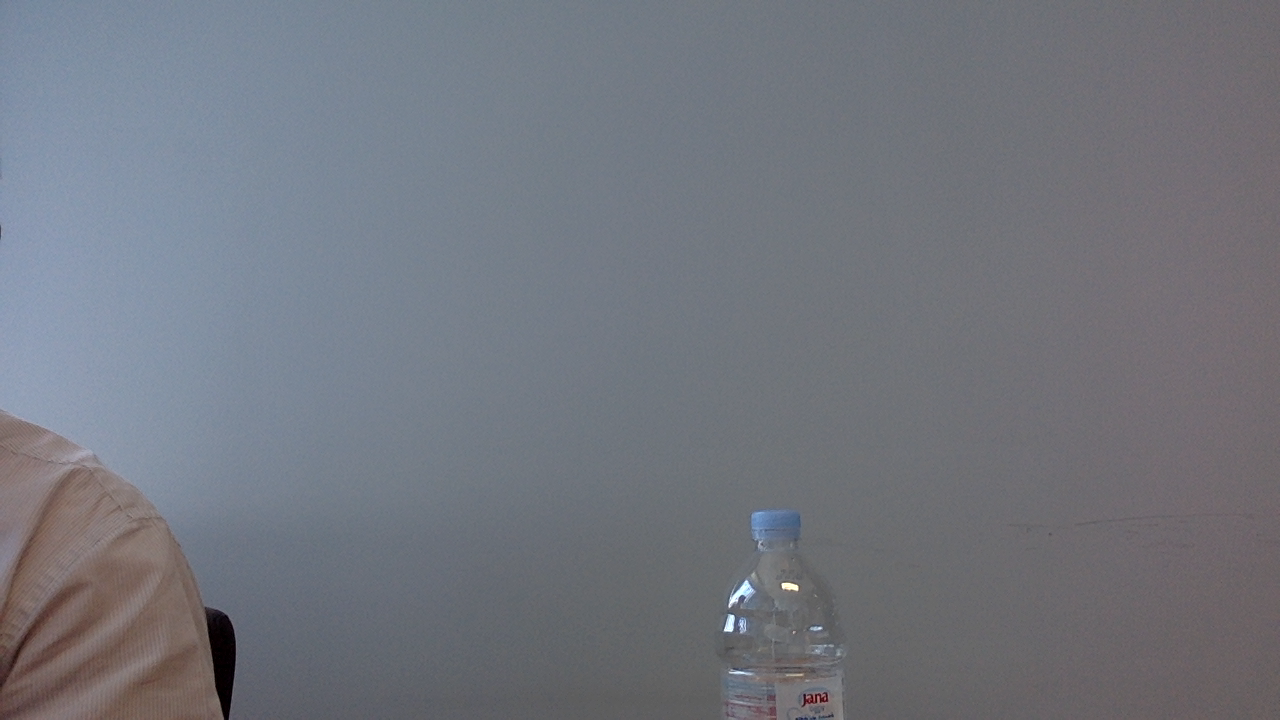
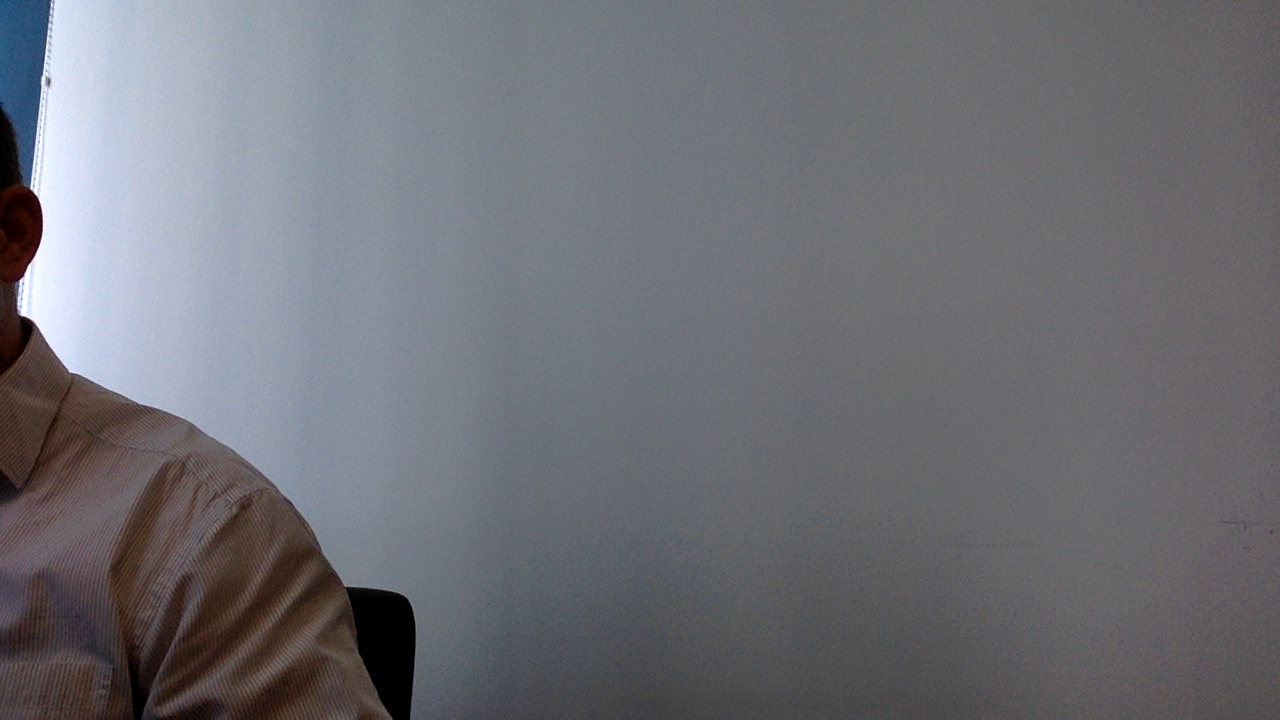
live view image refresh automatically

Changed region(s): [[0.0, 0.0, 0.3438, 1.0], [0.375, 0.7028, 0.7812, 1.0], [0.9688, 0.9778, 1.0, 1.0]]

diff --git a/Templates/live_view.html b/Templates/live_view.html
@@ -22,10 +22,9 @@
   <div class="w3-row my-panel">
     <div class=" w3-container">
 	  <div style="max-width: 400px; float:right; margin-right: 0px;padding: 10px 0">
-		Recent picture: {{recpicdate}}<br>
-		<img  src="live_view.png" style="max-width: 100%";}>
+		<img id="preview_img" src="/preview" style="max-width: 100%";}>
 	  </div>
-      <h1 class="w3-text-teal">Recent Scan</h1>
+      <h1 class="w3-text-teal">Live View</h1>
 
 	  <p>Recently recognized person/people:<br>{{names}}</p>
     </div>
@@ -46,5 +45,12 @@
 	</div>
   </div>
 
+<script type="text/javascript">
+	setInterval(function(){
+		d = new Date();
+		$("#preview_img").attr("src", "/preview?"+d.getTime());
+	}, 1000);
+
+</script>
 
 {%endblock main_content%}

diff --git a/blueprints/actions/routes.py b/blueprints/actions/routes.py
@@ -1,73 +1,26 @@
-from flask import Blueprint, render_template, request, redirect
+from flask import Blueprint, render_template, request, redirect, make_response
 from flask import current_app as app
 import flask_simplelogin as simplog
 import os
 import sys
 import datetime
-import threading
 import cv2
 import logging
 
-
 actions = Blueprint("actions", __name__)
 
-
-def continous_check(app_cont):
-    """
-    Continously calls the process_next_frame() method to process frames from the camera
-    app_cont: used to access the main application instance from blueprints
-    """
-    global most_recent_scan_date
-    ticker = 0
-    error_count = 0
-    while app_cont.fh.cam_is_running:
-        try:
-            if ticker > int(app_cont.fh.face_rec_settings["dnn_scan_freq"]) or app_cont.force_rescan:
-                names, frame, rects = app_cont.fh.process_next_frame(True, save_new_faces=True)
-                ticker = 0
-                cv2.imwrite("Static/live_view.png", frame)  # TODO: do we need this?
-                most_recent_scan_date = datetime.datetime.now()
-                app_cont.force_rescan = False
-            else:
-                names, frame, rects = app_cont.fh.process_next_frame(save_new_faces=True)
-            ticker += 1
-            error_count = 0
-        except Exception as e:
-            error_count += 1
-            if app_cont.fh.cam:
-                app_cont.fh.cam.release()
-            logging.info(e)
-            if error_count > 5:
-                app_cont.fh.cam_is_running = False
-    # try:
-    #     app_cont.camera_thread
-        # app_cont.threads.remove(app_cont.camera_thread)
-    # except NameError:
-    #    logging.info("Camera thread not found during the end of continous check")
-
-
 # background process'
-@actions.route('/stop_camera')
-@simplog.login_required
-def stop_cam():
-    if app.fh and app.fh.cam_is_running:
-        app.fh.cam_is_running = False
-    logging.info("Camera scanning stopped")
-    return redirect("/")
-
 
 @actions.route('/start_camera')
 @simplog.login_required
 def start_cam():
-    logging.info("The facehandler object: {}".format(app.fh))
-    if app.fh and not app.fh.cam_is_running:
-        app.fh.cam_is_running = True
-        app.fh.running_since = datetime.datetime.now()
-        app.camera_thread = threading.Thread(target=continous_check, args=(app._get_current_object(),))
-        app.camera_thread.start()
-        # app.threads.append(camera_thread)
-        logging.info("Camera started")
-    logging.info("Camera scanning started")
+    camera_start(app)
+    return redirect("/")
+
+@actions.route('/stop_camera')
+@simplog.login_required
+def stop_cam():
+    camera_stop(app)
     return redirect("/")
 
 
@@ -101,3 +54,13 @@ def hard_reset():
     os.execv("'" + sys.executable + "'", [sys.executable, __file__] + sys.argv)
     logging.info("Camera hard reset performed")
 
+
+@actions.route('/preview')
+@simplog.login_required
+def preview():
+    image_binary = app.preview_image
+    retval, buffer = cv2.imencode('.png', image_binary)
+    response = make_response(buffer.tobytes())
+    response.headers.set('Content-Type', 'image/jpeg')
+    response.headers.set('Content-Disposition', 'inline')
+    return response

diff --git a/webapp.py b/webapp.py
@@ -4,6 +4,8 @@ from flask_admin import Admin
 import flask_simplelogin as simplog
 from FaceHandler import FaceHandler
 import logging
+import cv2
+import threading
 
 #from flask_cache_buster import CacheBuster
 
@@ -15,6 +17,53 @@ most_recent_scan_date = None
 
 #cache_buster_config = {'extensions': ['.png', '.css', '.csv'], 'hash_size': 10}
 #cache_buster = CacheBuster(config=cache_buster_config)
+
+def camera_start(app):
+    logging.info("The facehandler object: {}".format(app.fh))
+    if app.fh and not app.fh.cam_is_running:
+        app.fh.cam_is_running = True
+        app.fh.running_since = datetime.datetime.now()
+        app.camera_thread = threading.Thread(target=camera_check, args=(app,))
+        app.camera_thread.start()
+        # app.threads.append(camera_thread)
+        logging.info("Camera started")
+    logging.info("Camera scanning started")
+
+def camera_stop(app):
+    if app.fh and app.fh.cam_is_running:
+        app.fh.cam_is_running = False
+    logging.info("Camera scanning stopped")
+
+def camera_check(app):
+    """
+    Continously calls the process_next_frame() method to process frames from the camera
+    app_cont: used to access the main application instance from blueprints
+    """
+    global most_recent_scan_date
+    ticker = 0
+    error_count = 0
+    while app.fh.cam_is_running:
+        try:
+            if ticker > int(app.fh.face_rec_settings["dnn_scan_freq"]) or app.force_rescan:
+                names, frame, rects = app.fh.process_next_frame(True, save_new_faces=True)
+                ticker = 0
+                cv2.imwrite("Static/live_view.png", frame)  # TODO: do we need this?
+                most_recent_scan_date = datetime.datetime.now()
+                app.force_rescan = False
+
+                app.preview_image = frame
+            else:
+                names, frame, rects = app.fh.process_next_frame(save_new_faces=True)
+            ticker += 1
+            error_count = 0
+        except Exception as e:
+            error_count += 1
+            if app.fh.cam:
+                app.fh.cam.release()
+            logging.info(e)
+            if error_count > 5:
+                app.fh.cam_is_running = False
+
 
 def get_hashed_login_passwd():
     """returns the hash of the current password stored in the database"""
@@ -79,7 +128,6 @@ def init_fh(app):
         # override the callback methods
         app.fh.on_known_face_enters = on_known_enters
         app.fh.on_known_face_leaves = on_known_leaves
-        app.fh.start_cam()
 
 
 def log(log_text):
@@ -141,5 +189,10 @@ def create_app(config_class=Config):
     simplog.SimpleLogin(app, login_checker=validate_login)
 #   cache_buster.register_cache_buster(app)
     app.force_rescan = False
+
+    app.preview_image = cv2.imread("Static/empty_pic.png")
+
+    camera_start(app)
+
     return app
 

diff --git a/blueprints/live_view/routes.py b/blueprints/live_view/routes.py
@@ -9,14 +9,6 @@ live_view = Blueprint("live_view", __name__)
 @live_view.route('/')
 @simplog.login_required
 def home():
-    global most_recent_scan_date
-    # names = []
-    # camrun = False
-    try:
-        prev_date = most_recent_scan_date.strftime(app.TIME_FORMAT)
-    except:
-        prev_date = "NOT FOUND"
-
     names = []
     if app.fh != None:
         names = [n for n in app.fh.visible_persons.keys()]
@@ -24,7 +16,7 @@ def home():
         "live_view.html",
         running=app.fh.cam_is_running,
         names=names,
-        recpicdate=prev_date,
         log=[],
-        runsince=app.fh.running_since.strftime(app.config["TIME_FORMAT"]))
+        runsince=app.fh.running_since.strftime(app.config["TIME_FORMAT"])
+    )
 
